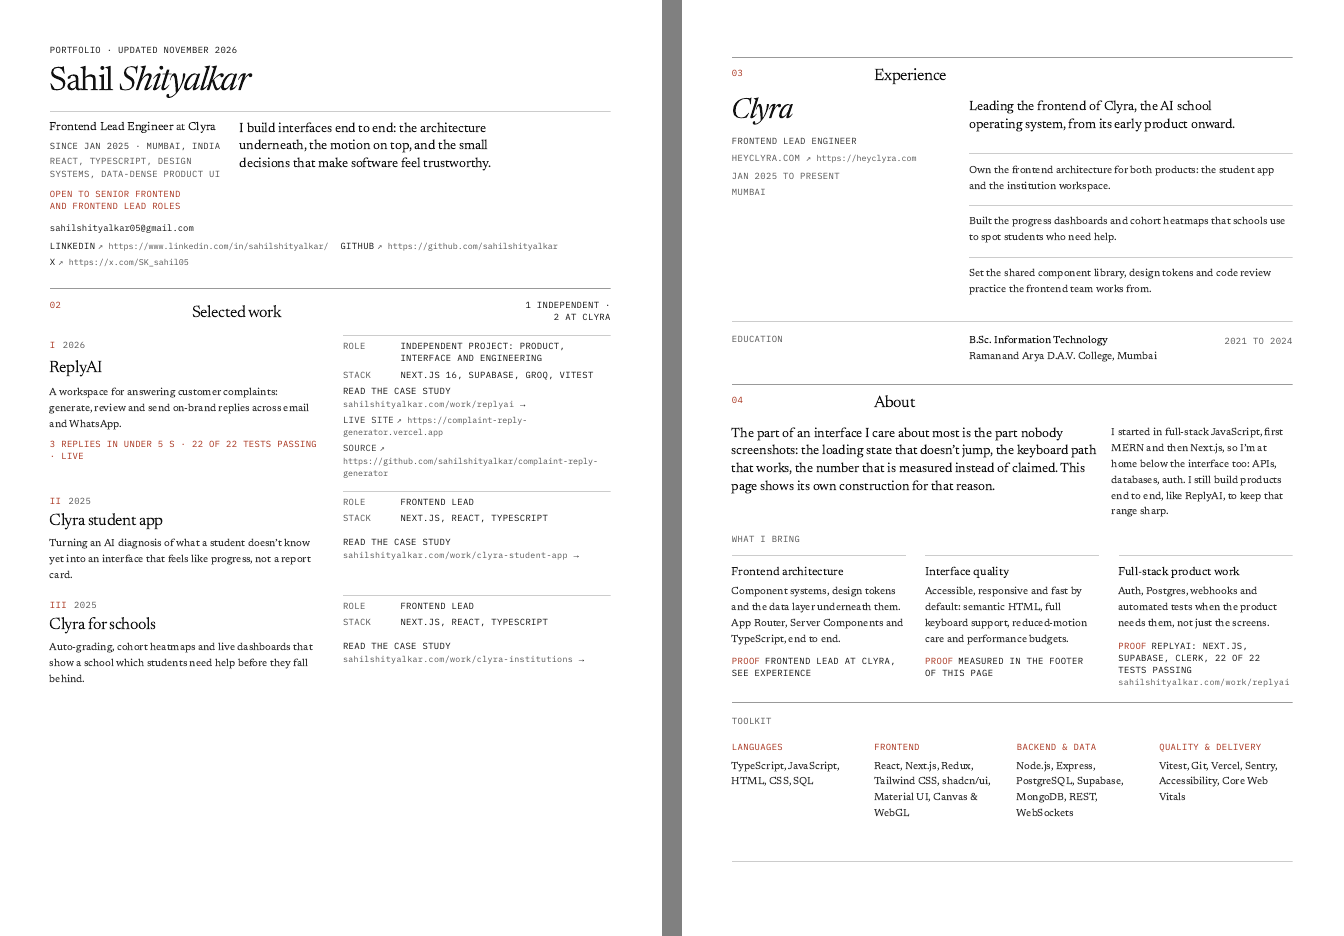
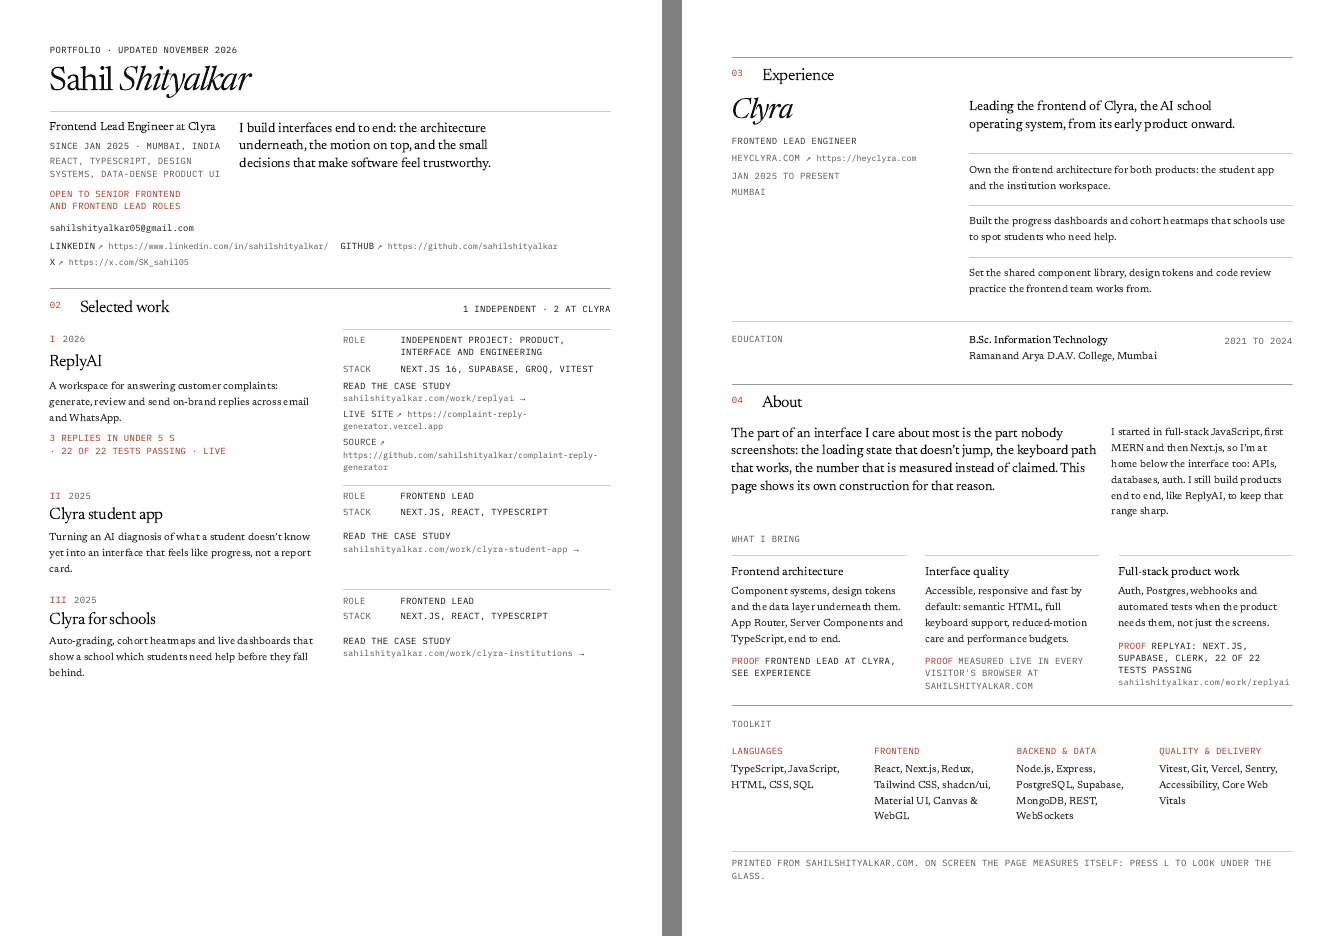
Fresh panel fixes: tighter hero, case pages open on the product, print polish
From a fresh hiring panel (7/10: craft 8.5, lead-role evidence 5, which
needs the owner's facts):
- Desktop hero: the surname rises into the field beside the first name
  (they never overlap horizontally), and the hero no longer holds a
  minimum height: the top of Plate I is on the first screen at 1366x768,
  1440x900 and 1920x1080 (at 1920 the ReplyAI case and its proof too)
- Reveals start as soon as anything is on screen (they waited 8% in)
- Case pages: a shipped product opens with the product itself and its
  drawing follows the decisions; without one, the drawing is narrower
- One ProofLine component; a one-word last claim ("live") stays with the
  one before it instead of wrapping alone
- Contact actions wrap to the column's edge on phones
- Print: "measured in the footer" reads as the live site on paper; section
  heads on paper are one line (the aside no longer wraps)
- Night: Plate III's row stays the brightest thing on it; the As built
  screenshot is a little dimmer

diff --git a/src/app/work/[slug]/page.tsx b/src/app/work/[slug]/page.tsx
@@ -8,6 +8,7 @@ import { isDraft } from "@/content/types";
 import { profile } from "@/content/profile";
 import { JsonLd, personId } from "@/lib/jsonld";
 import { CaseScreenshot, CaseVisual } from "@/components/CaseVisual";
+import { ProofLine } from "@/components/ProofLine";
 
 export const dynamicParams = false;
 
@@ -92,16 +93,7 @@ export default async function CaseStudy({ params }: PageProps<"/work/[slug]">) {
         </h1>
         <div className="col-span-12 md:col-span-7 fade-in">
           <T as="p" v={c.kicker} className="t-lede max-w-[40ch]" />
-          {c.proof ? (
-            <p data-spec="Proof" className="t-meta mt-5 text-mark">
-              {c.proof.split(" · ").map((part, k) => (
-                <span key={k}>
-                  {k ? " " : null}
-                  <span className="whitespace-nowrap">{k ? `· ${part}` : part}</span>
-                </span>
-              ))}
-            </p>
-          ) : null}
+          {c.proof ? <ProofLine proof={c.proof} className="mt-5" /> : null}
           {external.length ? (
             <p className="t-meta mt-4 flex flex-wrap gap-x-5 gap-y-2">
               {external.map((l) => (
@@ -134,9 +126,20 @@ export default async function CaseStudy({ params }: PageProps<"/work/[slug]">) {
         </dl>
       </header>
 
-      <div className="wrap mt-16" data-reveal>
-        <CaseVisual c={c} seed={i + 3} />
-      </div>
+      {/* A shipped product opens with the product itself; its drawing follows
+          the decisions. Without one, the drawing opens, at a size that leaves
+          the text within reach. */}
+      {c.image ? (
+        <div className="wrap mt-16" data-reveal>
+          <CaseScreenshot c={c} />
+        </div>
+      ) : (
+        <div className="wrap grid-12 mt-16" data-reveal>
+          <div className="col-span-12 lg:col-span-8 lg:col-start-3">
+            <CaseVisual c={c} seed={i + 3} />
+          </div>
+        </div>
+      )}
 
       <div className="wrap grid-12 mt-20 gap-y-16 sm:mt-28">
         <T as="p" v={c.summary} className="t-lede col-span-12 md:col-span-8 md:col-start-4" />
@@ -149,10 +152,10 @@ export default async function CaseStudy({ params }: PageProps<"/work/[slug]">) {
               </h2>
               <T as="p" v={s.body} className="col-span-12 max-w-[62ch] text-[1.15rem] text-ink-2 md:col-span-8 md:col-start-4" />
             </section>
-            {/* the product itself, right after the decisions that shaped it */}
+            {/* the drawing of the idea, right after the decisions that shaped it */}
             {s.heading === "Decisions" && c.image ? (
-              <div className="col-span-12" data-reveal>
-                <CaseScreenshot c={c} />
+              <div className="col-span-12 lg:col-span-8 lg:col-start-3" data-reveal>
+                <CaseVisual c={c} seed={i + 3} />
               </div>
             ) : null}
           </Fragment>

diff --git a/src/app/globals.css b/src/app/globals.css
@@ -430,7 +430,11 @@ body::before {
 /* by night the real screenshot stays untinted, only a touch less bright, so
    it reads as a lit sheet on the table rather than a white slab */
 :root[data-theme="night"] .asbuilt-shot img {
-  filter: brightness(0.88);
+  filter: brightness(0.8);
+}
+/* by night the brass row of Plate III must stay the brightest thing on it */
+:root[data-theme="night"] .slip {
+  fill-opacity: 0.92;
 }
 .asbuilt-ring {
   opacity: 0;
@@ -764,6 +768,15 @@ html:not(.js) .asbuilt-toggle {
 /* Short phone screens (375x667 and the like): the hero tightens so the whole
    recruiter line, the work cue and the Work rule all fit on the first screen.
    Unlayered, so it wins over the utilities it adjusts. */
+/* Wide screens: "Sahil" sits left and "Shityalkar" right, so the surname
+   rises into the field beside the first name instead of starting a full
+   line below it; the hero gives the first screen back to the work. */
+@media (min-width: 1024px) {
+  #intro-title .mask-line + .mask-line {
+    margin-top: calc(-0.2em - var(--rise, 0.34em));
+  }
+}
+
 /* Short laptop screens (1366x768, 1280x800): the name gives up a little
    more height so the Work title is whole on the first screen. */
 @media (min-width: 1024px) and (max-height: 820px) {
@@ -959,6 +972,18 @@ html:not(.js) .asbuilt-toggle {
   #work h3 a::after,
   #intro [data-spec="Role"] a::after {
     content: none !important;
+  }
+  /* a section head on paper: number, title, and its aside on one line */
+  [data-section-head] {
+    display: flex !important;
+    align-items: baseline;
+    gap: 6mm;
+  }
+  [data-section-head] > h2 {
+    flex: 1;
+  }
+  [data-section-head] > div {
+    white-space: nowrap;
   }
   #about ul {
     grid-template-columns: repeat(3, minmax(0, 1fr)) !important;

diff --git a/src/components/sections/Work.tsx b/src/components/sections/Work.tsx
@@ -3,6 +3,7 @@ import { work } from "@/content/work";
 import { T, plain } from "@/components/Draftable";
 import { CaseVisual } from "@/components/CaseVisual";
 import { SectionHead } from "@/components/SectionHead";
+import { ProofLine } from "@/components/ProofLine";
 
 /**
  * No interactive element nests inside another: the plate is covered by a
@@ -63,18 +64,7 @@ export function Work() {
                   </Link>
                 </h3>
                 <T as="p" v={c.kicker} className="mt-4 max-w-[38ch] text-ink-2" />
-                {c.proof ? (
-                  <p data-spec="Proof" className="t-meta mt-4 text-mark">
-                    {/* a line may break between claims, never inside one, and
-                        the separator travels with the claim it introduces */}
-                    {c.proof.split(" · ").map((part, k) => (
-                      <span key={k}>
-                        {k ? " " : null}
-                        <span className="whitespace-nowrap">{k ? `· ${part}` : part}</span>
-                      </span>
-                    ))}
-                  </p>
-                ) : null}
+                {c.proof ? <ProofLine proof={c.proof} className="mt-4" /> : null}
                 <dl className="t-meta mt-6 grid grid-cols-[6rem_1fr] gap-y-1.5 border-t border-rule pt-4">
                   <dt className="text-ink-3">Role</dt>
                   <T as="dd" v={c.role} />

diff --git a/src/components/sections/Contact.tsx b/src/components/sections/Contact.tsx
@@ -31,16 +31,18 @@ export function Contact() {
                 {links.email.split("@")[0]}@<wbr />
                 {links.email.split("@").slice(1).join("@")}
               </a>
-              <div className="mt-6 flex flex-wrap gap-2">
+              {/* the bordered copy button, then plain text actions: wrapped onto a
+                  new line on a phone they still start at the column's edge */}
+              <div className="mt-6 flex flex-wrap items-center gap-x-6 gap-y-3">
                 <CopyEmail email={links.email} />
                 <a
                   href={`mailto:${links.email}`}
-                  className="t-meta inline-flex h-9 items-center rounded-[2px] px-4 text-ink-2 transition-colors hover:text-ink"
+                  className="t-meta link-draw inline-flex items-center text-ink-2 hover:text-ink"
                 >
                   Open mail app ↗
                 </a>
                 {links.resume ? null : (
-                  <PrintButton className="t-meta inline-flex h-9 items-center rounded-[2px] px-4 text-ink-2 transition-colors hover:text-ink">
+                  <PrintButton className="t-meta link-draw inline-flex items-center text-ink-2 hover:text-ink">
                     Save a PDF summary ↓
                   </PrintButton>
                 )}

diff --git a/src/components/ProofLine.tsx b/src/components/ProofLine.tsx
@@ -1,0 +1,21 @@
+/**
+ * A case's verified proof ("3 replies in under 5 s · 22 of 22 tests passing ·
+ * live"): a line may break between claims, never inside one; the separator
+ * travels with the claim it introduces, and a one-word last claim stays with
+ * the one before it rather than ending up alone on a line.
+ */
+export function ProofLine({ proof, className = "" }: { proof: string; className?: string }) {
+  const claims = proof.split(" · ");
+  const last = claims.at(-1);
+  if (claims.length > 2 && last && !last.includes(" ")) claims.splice(-2, 2, `${claims.at(-2)} · ${last}`);
+  return (
+    <p data-spec="Proof" className={`t-meta text-mark ${className}`}>
+      {claims.map((claim, k) => (
+        <span key={k}>
+          {k ? " " : null}
+          <span className="whitespace-nowrap">{k ? `· ${claim}` : claim}</span>
+        </span>
+      ))}
+    </p>
+  );
+}

diff --git a/src/content/about.ts b/src/content/about.ts
@@ -6,6 +6,8 @@ export type Capability = {
   /** The evidence a reviewer can check: a project, a measured result, this site. */
   proof: string;
   href?: string;
+  /** On paper, when the proof points at something only the screen has. */
+  printProof?: string;
 };
 
 /**
@@ -38,6 +40,7 @@ export const about: {
       body: "Accessible, responsive and fast by default: semantic HTML, full keyboard support, reduced-motion care and performance budgets.",
       proof: "Measured in the footer of this page",
       href: "#contact",
+      printProof: "Measured live in every visitor's browser at sahilshityalkar.com",
     },
     {
       title: "Full-stack product work",

diff --git a/src/components/sections/About.tsx b/src/components/sections/About.tsx
@@ -33,8 +33,9 @@ export function About() {
               <T as="p" v={c.body} className="mt-1.5 max-w-[44ch] text-ink-2" />
               <p className="t-meta mt-3 text-ink-3 lg:mt-auto lg:pt-4">
                 <span className="text-mark">Proof</span>&ensp;
+                {c.printProof ? <span className="hidden print:inline">{c.printProof}</span> : null}
                 {c.href?.startsWith("#") ? (
-                  <a href={c.href} className="link-draw text-ink">
+                  <a href={c.href} className={`link-draw text-ink ${c.printProof ? "print:hidden" : ""}`}>
                     {c.proof}
                   </a>
                 ) : c.href ? (

diff --git a/src/components/sections/Hero.tsx b/src/components/sections/Hero.tsx
@@ -21,7 +21,7 @@ export function Hero() {
       id="intro"
       aria-labelledby="intro-title"
       data-spec="Hero"
-      className="relative flex flex-col pb-6 pt-[calc(var(--header-h)+2.5rem)] md:pb-4 lg:min-h-[min(calc(100svh-12rem),46rem)] lg:justify-end lg:pb-8 lg:pt-[calc(var(--header-h)+2rem)]"
+      className="relative flex flex-col pb-6 pt-[calc(var(--header-h)+2.5rem)] md:pb-4 lg:pb-8 lg:pt-[calc(var(--header-h)+2rem)]"
     >
       <div className="wrap grid-12 gap-y-6 sm:gap-y-10 lg:gap-y-[clamp(1.75rem,4.2svh,2.5rem)]" data-spec-grid>
         <p className="t-meta col-span-12 text-ink-3 fade-in" style={{ ["--i" as string]: 0 }}>

diff --git a/src/components/Reveal.tsx b/src/components/Reveal.tsx
@@ -28,7 +28,7 @@ export function RevealObserver() {
           }
         }
       },
-      { rootMargin: "0px 0px -8% 0px", threshold: 0.01 },
+      { rootMargin: "0px", threshold: 0 },
     );
 
     const pending = () => document.querySelectorAll("[data-reveal]:not([data-in])");
@@ -39,7 +39,7 @@ export function RevealObserver() {
     const sweep = () => {
       clearTimeout(t);
       t = window.setTimeout(() => {
-        const fold = innerHeight * 0.92;
+        const fold = innerHeight;
         pending().forEach((el) => {
           if (el.getBoundingClientRect().top < fold) {
             show(el);

diff --git a/src/components/SectionHead.tsx b/src/components/SectionHead.tsx
@@ -23,7 +23,7 @@ export function SectionHead({
   size?: "primary" | "compact";
 }) {
   return (
-    <div className={`grid-12 gap-y-3 border-t border-(--rule-strong) pt-4 ${size === "primary" ? "items-end gap-y-4" : "items-baseline"}`}>
+    <div data-section-head className={`grid-12 gap-y-3 border-t border-(--rule-strong) pt-4 ${size === "primary" ? "items-end gap-y-4" : "items-baseline"}`}>
       {/* the sheet number sits in the corner under the rule, like a drawing's */}
       <p className="t-meta col-span-2 self-start text-mark md:col-span-3">{n}</p>
       <h2

diff --git a/src/components/Plate.tsx b/src/components/Plate.tsx
@@ -166,7 +166,7 @@ function Heatmap() {
                 rx="3"
                 fill={y === slipping ? MARK : INK}
                 fillOpacity={y === slipping ? 0.3 + v : v * 0.85}
-                className="cell"
+                className={y === slipping ? "cell slip" : "cell"}
                 style={d(x + y)}
               />
             );
